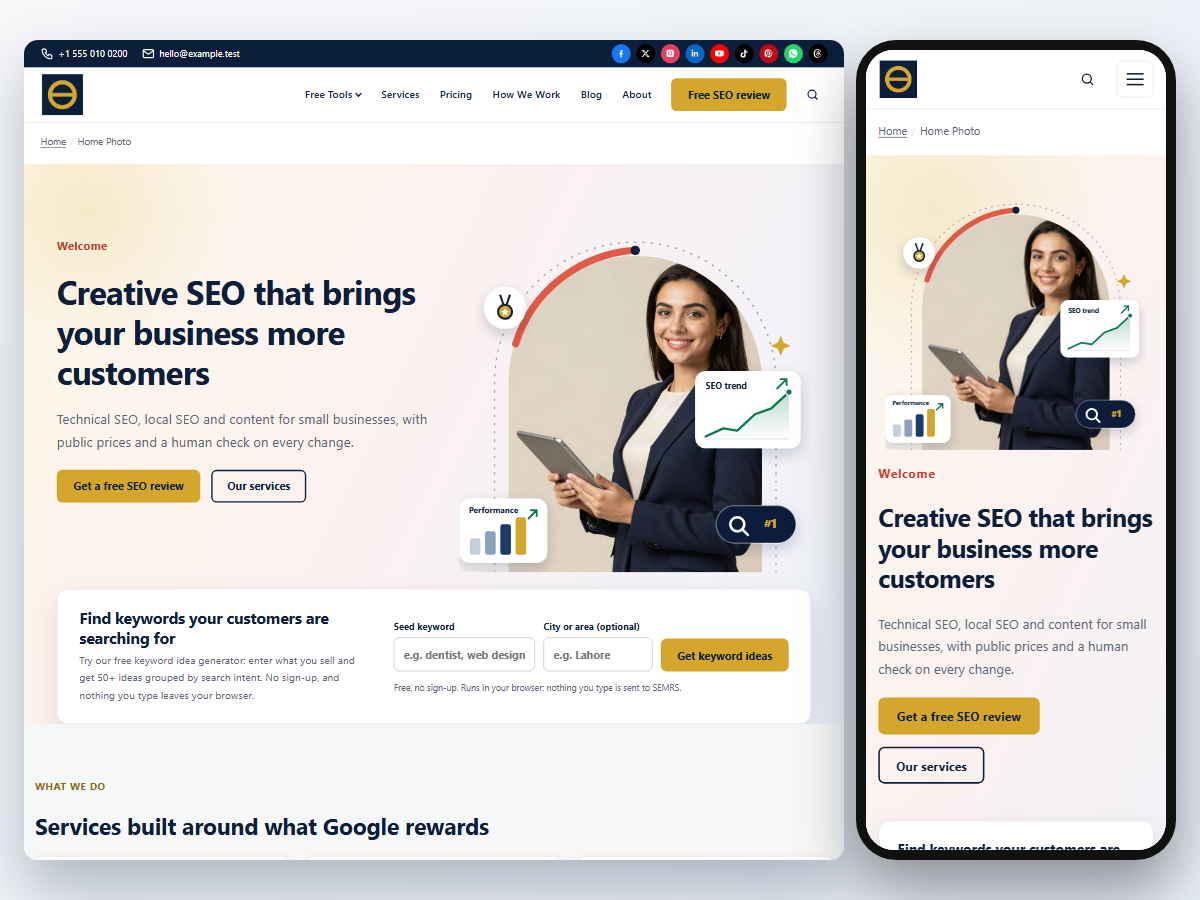
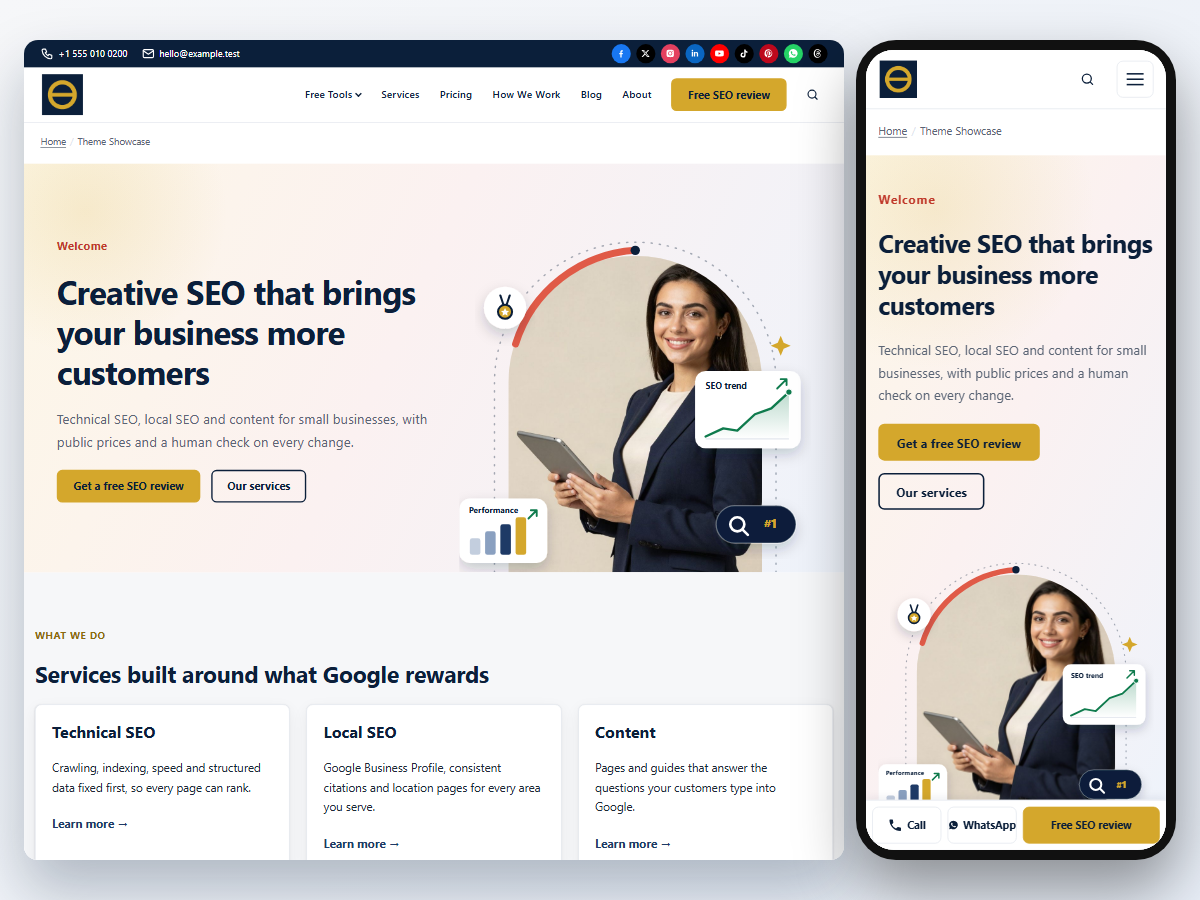
Theme 1.3.4 / child 1.2.4: quick contact bar in parent; policy-safe screenshots

diff --git a/semrs-site/theme/semrs/style.css b/semrs-site/theme/semrs/style.css
@@ -4,7 +4,7 @@ Theme URI:         https://semrs.com/
 Author:            SEMRS
 Author URI:        https://semrs.com/
 Description:       Lightweight, SEO-first theme for businesses, agencies and blogs. Drag-and-drop header and footer builder with top bar, sticky and transparent header, header search and a mobile menu panel. Seven section patterns, sidebar layouts, blog grid or list, reading progress bar, author box, related posts and per-page header, footer and sidebar options. No jQuery: one stylesheet and one small script.
-Version:           1.3.3
+Version:           1.3.4
 Requires at least: 6.5
 Tested up to:      7.1
 Requires PHP:      7.4
@@ -173,6 +173,17 @@ th { background: var(--sp-surface); }
 	.main-navigation .sp-mobile-cta { display: block; margin-top: 1rem; }
 }
 @media (min-width: 922px) { .main-navigation .sp-mobile-cta { display: none; } }
+/* Quick contact bar on phones (Header builder setting). */
+.sp-action-bar { display: none; }
+@media (max-width: 781px) {
+	.sp-action-bar { display: flex; position: fixed; left: 0; right: 0; bottom: 0; z-index: 998; gap: .5rem; padding: .5rem .5rem calc(.5rem + env(safe-area-inset-bottom)); background: #fff; border-top: 1px solid #e3e7ee; box-shadow: 0 -2px 12px rgba(11, 31, 58, .08); }
+	.sp-action-bar a { flex: 1 1 0; display: flex; align-items: center; justify-content: center; gap: .35rem; min-height: 48px; font-size: .875rem; font-weight: 700; color: var(--sp-primary, #0b1f3a); text-decoration: none; border: 1px solid #e3e7ee; border-radius: 8px; }
+	.sp-action-bar a.sp-action-bar__primary { flex: 2 1 0; background: var(--sp-accent, #d4a72c); border-color: var(--sp-accent, #d4a72c); color: var(--sp-on-accent, #0b1f3a); }
+	body.sp-has-action-bar { padding-bottom: 72px; }
+	body.sp-has-action-bar .sp-to-top { bottom: 84px; }
+}
+html[data-theme="dark"] .sp-action-bar { background: var(--sp-card, #132036); border-color: #263652; }
+html[data-theme="dark"] .sp-action-bar a:not(.sp-action-bar__primary) { color: #fff; border-color: #33476a; }
 
 /* ---------- 5. Buttons & forms ---------- */
 .sp-button, .wp-block-button__link, .wp-element-button, button[type="submit"], input[type="submit"], .wpcf7-submit {

diff --git a/semrs-site/preview/shots/theme-shot.html b/semrs-site/preview/shots/theme-shot.html
@@ -6,5 +6,5 @@ html,body{margin:0;width:1200px;height:900px;overflow:hidden;background:linear-g
 .phone iframe{border:0;width:390px;height:1040px;transform:scale(.769);transform-origin:0 0;border-radius:36px;background:#fff;display:block}
 </style></head><body>
 <div class="desk"><iframe id="d" scrolling="no"></iframe></div><div class="phone"><iframe id="m" scrolling="no"></iframe></div>
-<script>var q=new URLSearchParams(location.search),s=q.get("shot")||"parent",p=q.get("page")||"home-photo",u="/"+p+"/?semrs_shot="+s+"&v="+Date.now();document.getElementById("d").src=u;document.getElementById("m").src=u;</script>
+<script>var q=new URLSearchParams(location.search),s=q.get("shot")||"parent",p=q.get("page")||"theme-showcase",u="/"+p+"/?semrs_shot="+s+"&v="+Date.now();document.getElementById("d").src=u;document.getElementById("m").src=u;</script>
 </body></html>

diff --git a/semrs-site/theme/semrs-child-seo/style.css b/semrs-site/theme/semrs-child-seo/style.css
@@ -5,7 +5,7 @@ Description:  SEMRS brand layer for the SEMRS theme: navy/gold brand tokens, sti
 Author:       SEMRS
 Author URI:   https://semrs.com/
 Template:     semrs
-Version:      1.2.3
+Version:      1.2.4
 Requires at least: 6.5
 Tested up to: 7.1
 Requires PHP: 7.4

diff --git a/semrs-site/theme/semrs/inc/action-bar.php b/semrs-site/theme/semrs/inc/action-bar.php
@@ -1,0 +1,66 @@
+<?php
+/**
+ * Quick contact bar on phones: Call · WhatsApp · header button.
+ * Off by default (Customizer → SEMRS Theme → Header builder). Uses the Phone,
+ * WhatsApp profile URL and header button settings. Child themes that print
+ * their own bar (SEMRS Child SEO) take over automatically.
+ *
+ * @package semrs
+ */
+
+defined( 'ABSPATH' ) || exit;
+
+/**
+ * Bar shown on this request?
+ *
+ * @return bool
+ */
+function semrs_theme_action_bar_on() {
+	return (bool) semrs_theme_opt( 'action_bar' ) && ! function_exists( 'semrs_conversion_widgets' );
+}
+
+/**
+ * Body class reserves space for the bar.
+ *
+ * @param string[] $classes Classes.
+ * @return string[]
+ */
+function semrs_theme_action_bar_class( $classes ) {
+	if ( semrs_theme_action_bar_on() ) {
+		$classes[] = 'sp-has-action-bar';
+	}
+	return $classes;
+}
+add_filter( 'body_class', 'semrs_theme_action_bar_class' );
+
+/**
+ * Print the bar.
+ */
+function semrs_theme_action_bar() {
+	if ( ! semrs_theme_action_bar_on() ) {
+		return;
+	}
+	$phone = preg_replace( '/[^\d+]/', '', (string) semrs_theme_opt( 'phone' ) );
+	$wa    = (string) semrs_theme_opt( 'social_whatsapp' );
+	$text  = (string) semrs_theme_opt( 'cta_text' );
+	$url   = (string) semrs_theme_opt( 'cta_url' );
+	if ( ! $phone && ! $wa && ! ( $text && $url ) ) {
+		return;
+	}
+	$icon = function ( $d ) {
+		return '<svg viewBox="0 0 24 24" width="20" height="20" fill="currentColor" aria-hidden="true" focusable="false"><path d="' . esc_attr( $d ) . '"/></svg>';
+	};
+	echo '<nav class="sp-action-bar" aria-label="' . esc_attr__( 'Quick contact', 'semrs' ) . '">';
+	if ( $phone ) {
+		printf( '<a href="tel:%s">%s<span>%s</span></a>', esc_attr( $phone ), $icon( 'M6.6 10.8a15.1 15.1 0 0 0 6.6 6.6l2.2-2.2a1 1 0 0 1 1-.25c1.1.37 2.3.57 3.6.57a1 1 0 0 1 1 1V20a1 1 0 0 1-1 1A17 17 0 0 1 3 4a1 1 0 0 1 1-1h3.5a1 1 0 0 1 1 1c0 1.3.2 2.5.57 3.6a1 1 0 0 1-.25 1z' ), esc_html__( 'Call', 'semrs' ) ); // phpcs:ignore WordPress.Security.EscapeOutput -- escaped SVG.
+	}
+	if ( $wa ) {
+		$nets = semrs_theme_social_networks();
+		printf( '<a href="%s" target="_blank" rel="noopener">%s<span>WhatsApp</span></a>', esc_url( $wa ), $icon( $nets['whatsapp'][2] ) ); // phpcs:ignore WordPress.Security.EscapeOutput -- escaped SVG.
+	}
+	if ( $text && $url ) {
+		printf( '<a class="sp-action-bar__primary" href="%s">%s</a>', esc_url( $url ), esc_html( $text ) );
+	}
+	echo '</nav>';
+}
+add_action( 'wp_footer', 'semrs_theme_action_bar', 6 );

diff --git a/semrs-site/theme/semrs/inc/customizer.php b/semrs-site/theme/semrs/inc/customizer.php
@@ -62,6 +62,7 @@ function semrs_theme_settings_map() {
 		'top_mobile'       => array( 'hbuilder', 'checkbox', __( 'Show the top bar on phones', 'semrs' ), false ),
 		'mobile_button'    => array( 'hbuilder', 'checkbox', __( 'Show the header button next to the menu icon on phones', 'semrs' ), false ),
 		'phone'            => array( 'hbuilder', 'text', __( 'Phone (Contact element)', 'semrs' ), '' ),
+		'action_bar'       => array( 'hbuilder', 'checkbox', __( 'Quick contact bar on phones (Call, WhatsApp and the header button; uses Phone, the WhatsApp profile URL and the header button)', 'semrs' ), false ),
 		'email'            => array( 'hbuilder', 'text', __( 'Email (Contact element)', 'semrs' ), '' ),
 		'btn2_text'        => array( 'hbuilder', 'text', __( 'Second button text', 'semrs' ), '' ),
 		'btn2_url'         => array( 'hbuilder', 'url', __( 'Second button link', 'semrs' ), '' ),

diff --git a/semrs-site/theme/semrs/functions.php b/semrs-site/theme/semrs/functions.php
@@ -14,7 +14,7 @@
 
 defined( 'ABSPATH' ) || exit;
 
-define( 'SEMRS_THEME_VERSION', '1.3.3' );
+define( 'SEMRS_THEME_VERSION', '1.3.4' );
 define( 'SEMRS_THEME_DIR', get_template_directory() );
 define( 'SEMRS_THEME_URI', get_template_directory_uri() );
 
@@ -105,6 +105,7 @@ require SEMRS_THEME_DIR . '/inc/header-builder.php';
 require SEMRS_THEME_DIR . '/inc/features.php';
 require SEMRS_THEME_DIR . '/inc/performance.php';
 require SEMRS_THEME_DIR . '/inc/page-options.php';
+require SEMRS_THEME_DIR . '/inc/action-bar.php';
 
 // Updates from semrs.com (WordPress "Update available" notices). Not present in WordPress.org builds.
 if ( file_exists( SEMRS_THEME_DIR . '/inc/semrs-updater.php' ) ) {

diff --git a/semrs-site/preview/mu/test-screenshots.php b/semrs-site/preview/mu/test-screenshots.php
@@ -46,3 +46,6 @@ if ( ! empty( $_GET['semrs_dark'] ) ) { // phpcs:ignore WordPress.Security.Nonce
 		}
 	);
 }
+
+// Theme screenshots: show the parent theme's quick contact bar on phones (a Customizer setting).
+add_filter( 'theme_mod_semrs_theme_action_bar', '__return_true' );

diff --git a/semrs-site/theme/semrs-child-seo/functions.php b/semrs-site/theme/semrs-child-seo/functions.php
@@ -7,7 +7,7 @@
 
 defined( 'ABSPATH' ) || exit;
 
-define( 'SEMRS_CHILD_VERSION', '1.2.3' );
+define( 'SEMRS_CHILD_VERSION', '1.2.4' );
 
 /**
  * Read a child setting (Customizer → SEMRS Theme → Contact & conversion).
